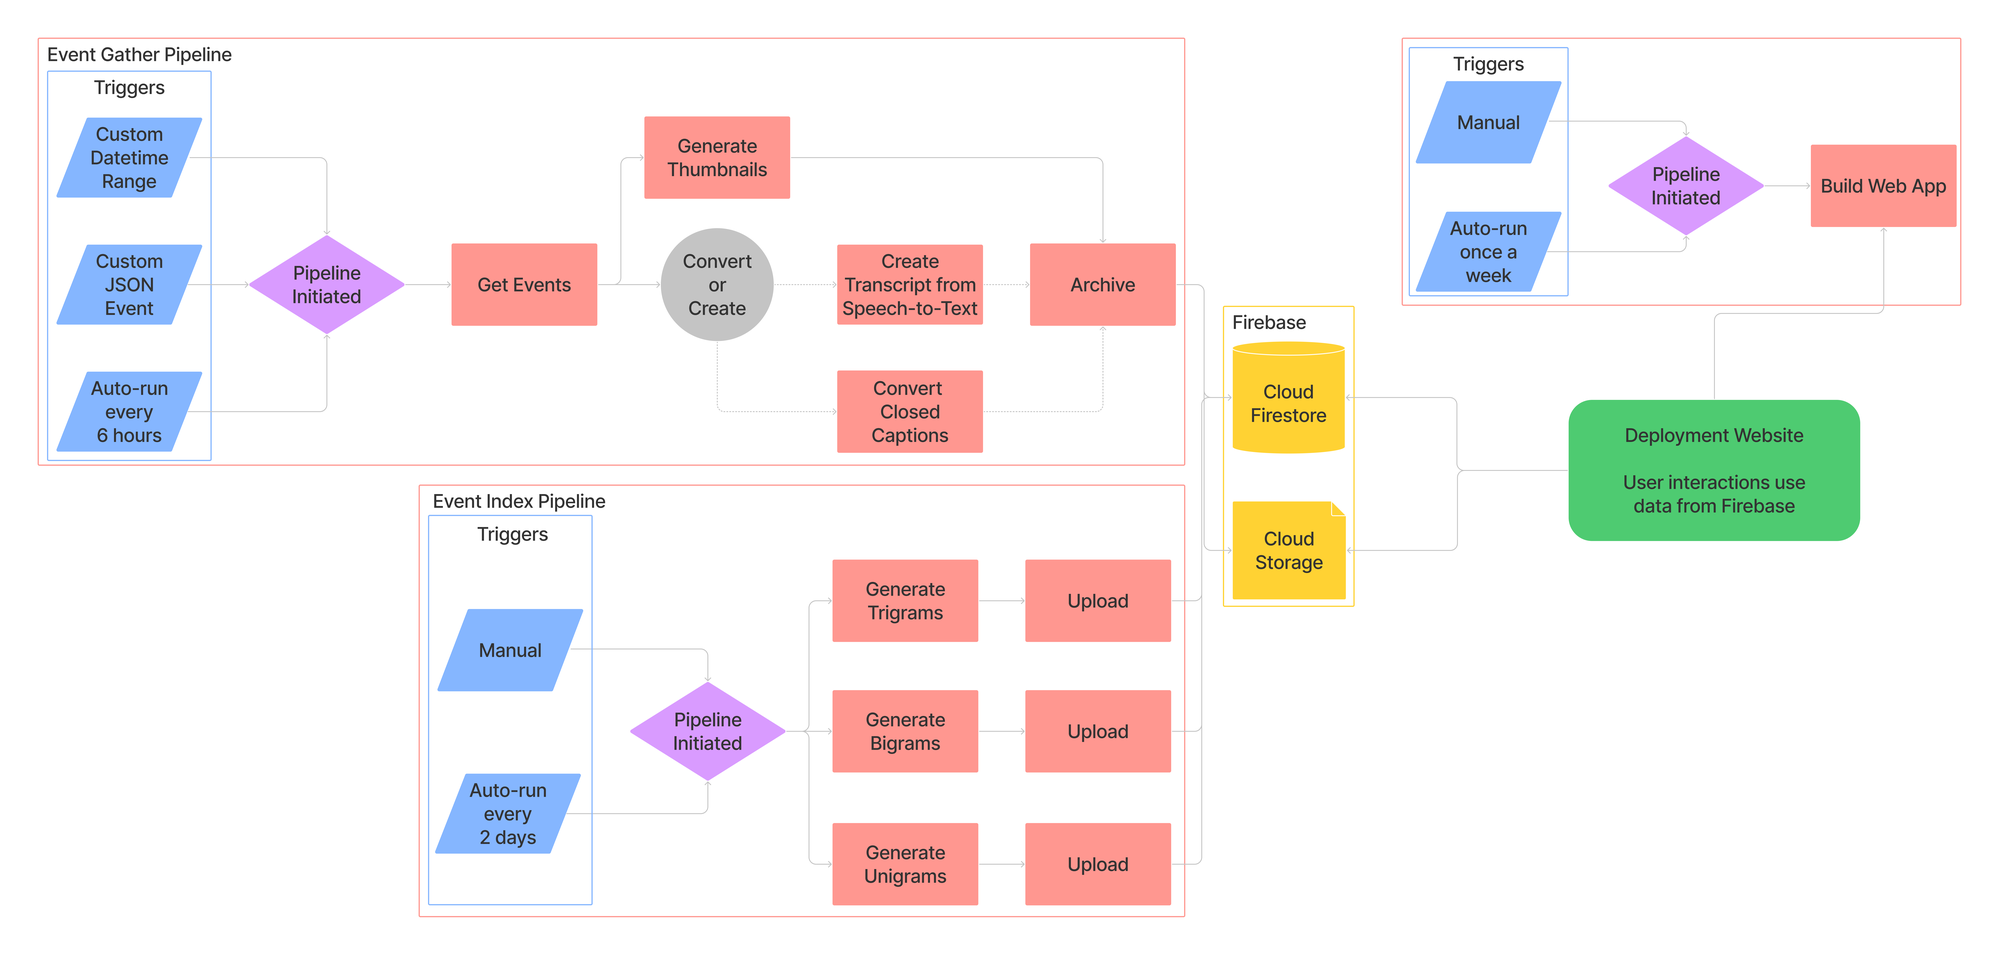
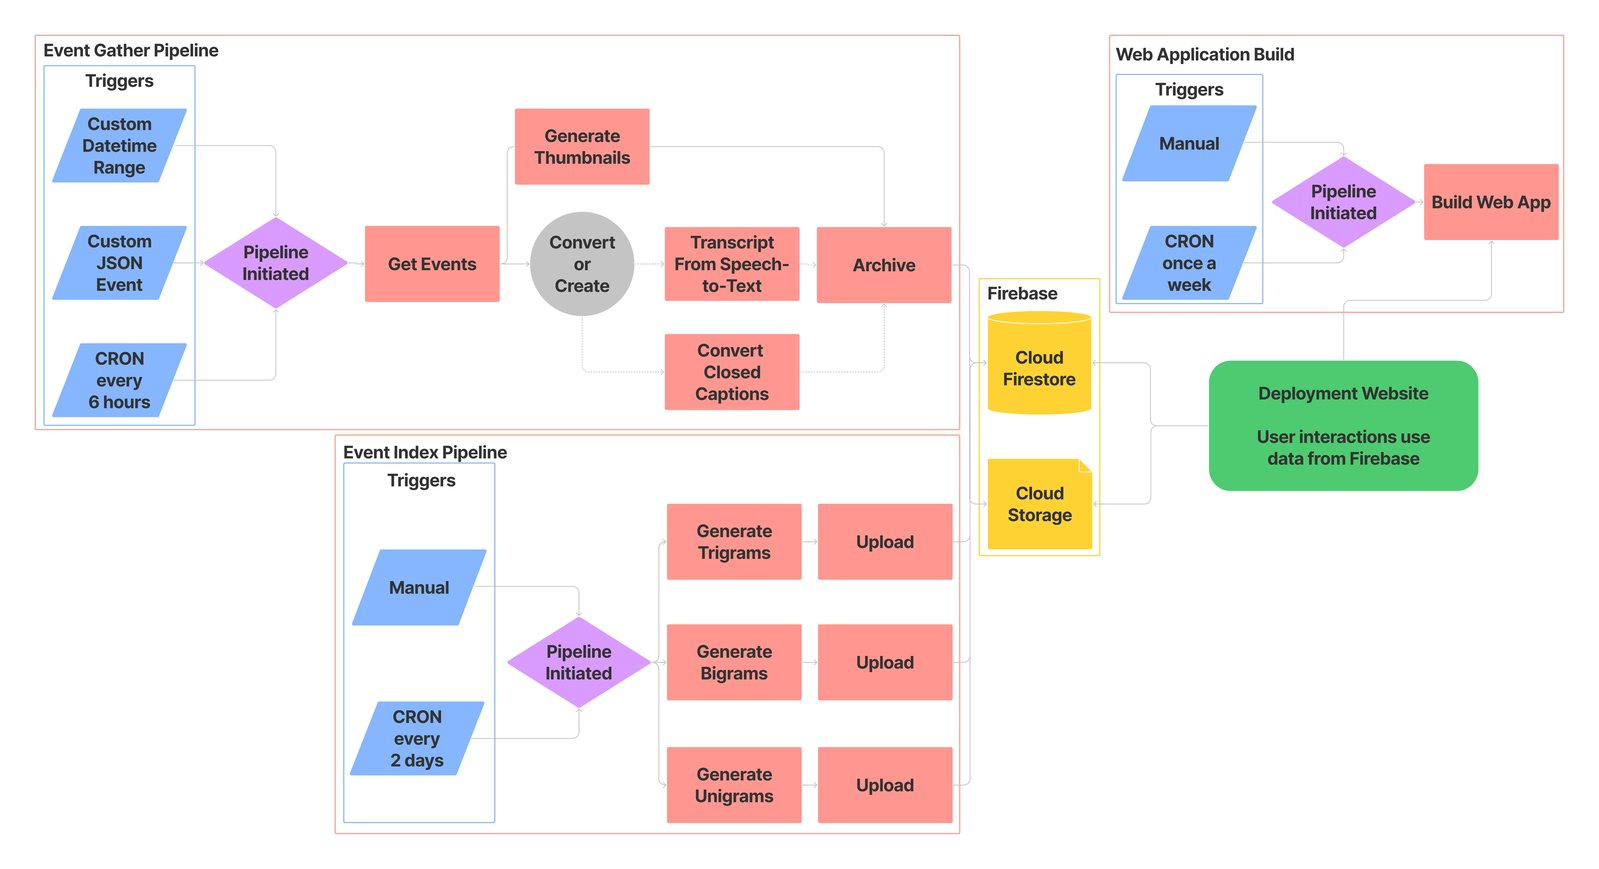
admin/update-acknowledgements-in-joss-paper (#68)
* Update acknowledgments

* Update acknowledgements and fig 1 description

* Update fig 1

diff --git a/paper/paper.md b/paper/paper.md
@@ -86,7 +86,7 @@ Deploying a CDP instance incurs some small primary costs by using:
 2. [Firebase Cloud Firestore](https://firebase.google.com/docs/firestore/) for event metadata storage and access.
 3. [Firebase Storage](https://firebase.google.com/docs/storage) for file storage and access.
 
-![CDP Core Infrastructure Figure. Event Gather Pipeline: inputs, GitHub Action, Python Pipeline tasks, and storage. Event Index Pipeline: inputs, GitHub Action, Python n-gram generation, and storage. Web Application Building: inputs, GitHub Action, and GitHub Pages.\label{fig:core-infra}](./assets/cdp_core_infrastructure.png)
+![CDP Core Infrastructure and Pipelines. A CDP instance's event gather and processing pipeline can be triggered by providing the GitHub Action a custom datetime range to process, providing a pre-constructed JSON object (useful for special events like debates and such), or the pipeline will automatically run every 6 hours. Once initiated, the event gather pipeline will get the events for the provided or default date range, create a transcript and extra metadata objects (thumbnails, and more), then will finally archive the event to Firebase. A CDP instance's event indexing pipeline can be triggered by running the pipeline manually or will automatically run every two days.Once initiated, the event index pipeline will in parallel, generate and store unigrams, bigrams, and trigrams from all event transcripts and store them to Firebase for query. Finally, the web application is built from a manual trigger or once a week and simply runs a standard NPM build process then publishes the generated web application to GitHub Pages. Once built and published, the deployment website fetches data from Firebase for search and web access.\label{fig:core-infra}](./assets/cdp_core_infrastructure.png)
 
 CDP tools allow for decentralized control over the management and deployment of each CDP instance while producing a standardized open-access dataset for both research and for municipal transparency and accessibility.
 
@@ -138,6 +138,6 @@ with open("local-transcript.json", "r") as open_resource:
 
 # Acknowledgements
 
-We wish to thank DemocracyLab volunteers for the many hours of work and contributions. From DemocracyLab, we would like to specifically thank Mark Frischmuth for the continued support and helpful discussions. We wish to thank the University of Washington Information School for support.
+We wish to thank the many volunteers that have contributed code, design, conversation, and ideas to the project. We wish to thank DemocracyLab and Open Seattle for helping build a civic technology community. From DemocracyLab, we would specifically like to thank Mark Frischmuth for the continued support and helpful discussions. We wish to thank the University of Washington Information School for support. We wish to thank Code for Science and Society and the Digital Infrastructure Incubator for providing guidance on developing a sustainable open source project.
 
 # References
